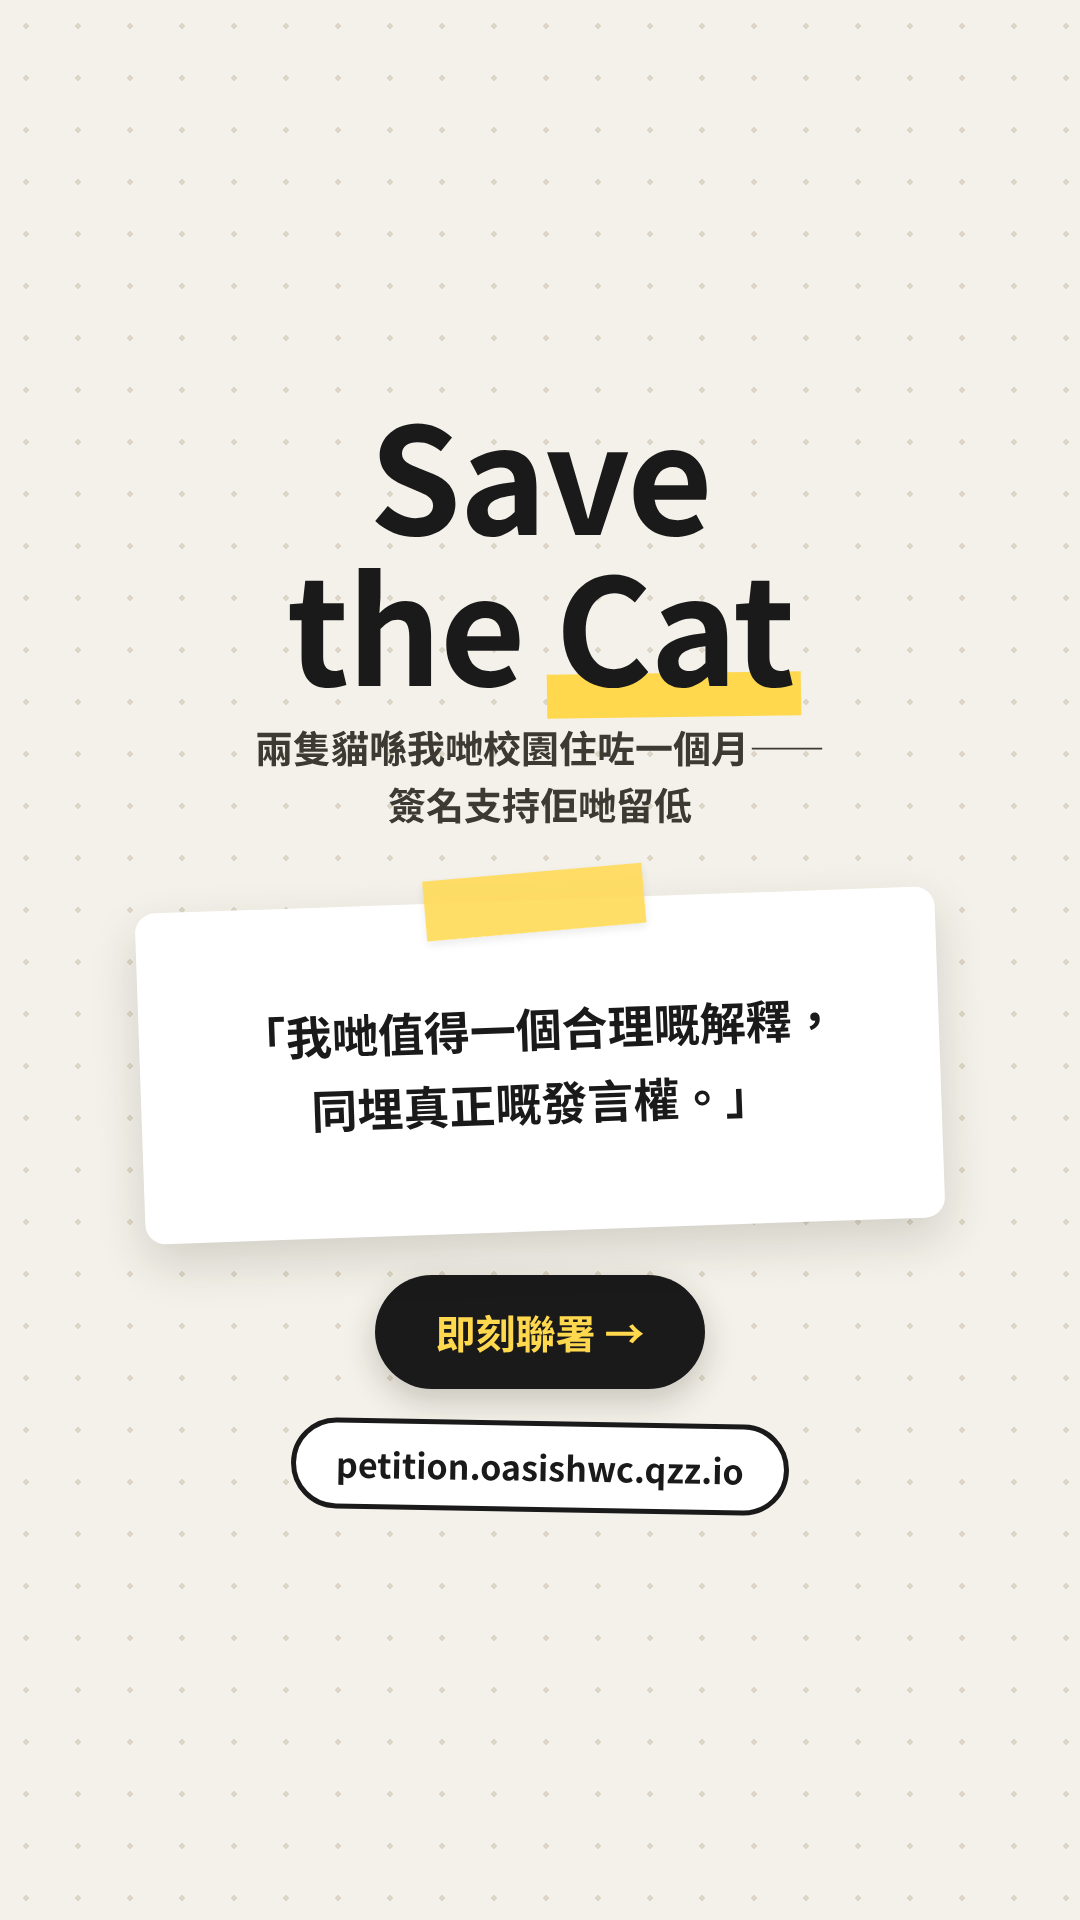
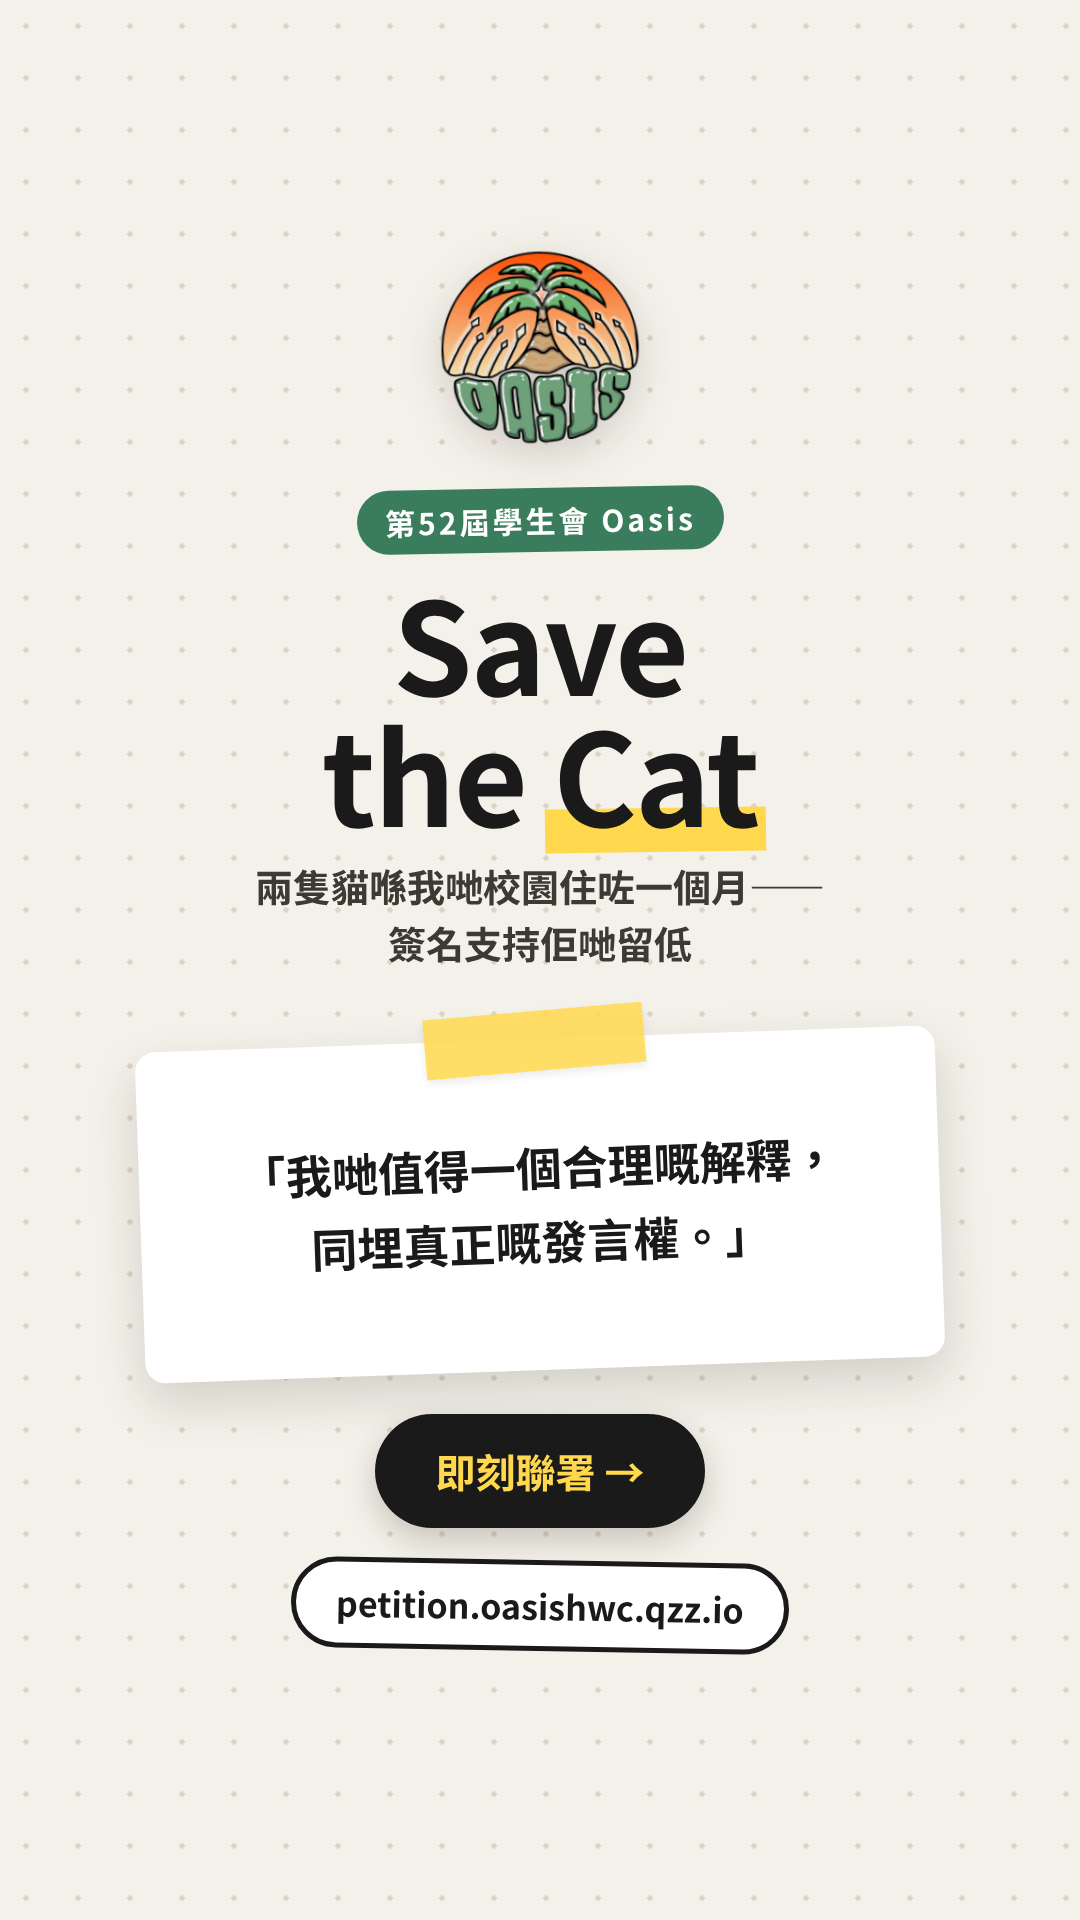
Render statement demands as a proper bullet list and brand the Oasis story card (修正聲明 bullet 排版並為 Oasis story 卡加品牌)
The five demands in the Oasis statement are paragraphs beginning with a
raw ● character; rendered as plain paragraphs the bullet sat flush inline
with wrapped text and no hanging indent, which looked broken. The Oasis
IG story card was also visually identical to the school version with no
Oasis identity.

聲明入面五點要求係以 ● 開頭嘅段落，直接用普通段落 render 會冇懸垂縮排、
視覺上好奇怪；Oasis 嘅 IG story 卡亦同學校版完全一樣，冇 Oasis 品牌。

- app/page.tsx: consecutive paragraphs starting with ● are grouped into a
  real <ul><li> list with the marker stripped
- 連續以 ● 開頭嘅段落改為真正嘅列表渲染
- public/story-card-oasis-src.html + regenerated PNG: added the
  transparent Oasis logo and a 第52屆學生會 Oasis pill, tightened layout
- story 卡加咗透明底 Oasis logo 同學生會標籤，重新出圖

Verified: tsc clean; card rendered at 1080x1920 and visually inspected.
已驗證 type check 通過，story 卡出圖並目測檢查。

Changed region(s): [[0.1222, 0.125, 0.8861, 0.875]]

diff --git a/app/page.tsx b/app/page.tsx
@@ -1,3 +1,4 @@
+import type * as React from "react";
 export const dynamic = "force-dynamic";
 
 import Link from "next/link";
@@ -20,6 +21,36 @@ import { readSession } from "@/lib/session";
 import { S } from "@/lib/strings";
 
 const FIRST_PAGE = 50;
+
+function renderBody(body: string) {
+  const paras = body.split(/\n\s*\n/);
+  const blocks: React.ReactNode[] = [];
+  let list: string[] = [];
+  const flush = () => {
+    if (list.length) {
+      const items = list;
+      list = [];
+      blocks.push(
+        <ul key={`ul-${blocks.length}`}>
+          {items.map((item, j) => (
+            <li key={j}>{item}</li>
+          ))}
+        </ul>,
+      );
+    }
+  };
+  paras.forEach((para, i) => {
+    const trimmed = para.trim();
+    if (trimmed.startsWith("\u25CF")) {
+      list.push(trimmed.replace(/^\u25CF\s*/, ""));
+    } else {
+      flush();
+      blocks.push(<p key={`p-${i}`}>{para}</p>);
+    }
+  });
+  flush();
+  return blocks;
+}
 
 export default async function Home() {
   const [session, content, counts] = await Promise.all([
@@ -62,9 +93,7 @@ export default async function Home() {
         <section className="hero">
           <h1>{content.title}</h1>
           <div className="body">
-            {content.body.split(/\n\s*\n/).map((para, i) => (
-              <p key={i}>{para}</p>
-            ))}
+            {renderBody(content.body)}
           </div>
 
           <div className="progress">

diff --git a/public/story-card-oasis-src.html b/public/story-card-oasis-src.html
@@ -16,9 +16,20 @@
   }
   .card {
     width: 480px; height: 900px;
-    padding-top: 150px;
+    padding-top: 84px;
     position: relative;
     display: flex; flex-direction: column; align-items: center;
+  }
+  .logo {
+    width: 120px; height: 120px; object-fit: contain;
+    transform: rotate(-2deg);
+    filter: drop-shadow(0 6px 10px rgba(40,35,20,.18));
+  }
+  .asso {
+    margin-top: 10px; font-size: 15px; font-weight: 800;
+    letter-spacing: 1.5px; color: #fff; background: #3a7d5c;
+    padding: 5px 14px; border-radius: 999px;
+    transform: rotate(-1deg);
   }
   .kicker {
     background: #1a1a1a; color: #fff;
@@ -27,8 +38,8 @@
     transform: rotate(-1.5deg);
   }
   h1 {
-    margin-top: 18px;
-    font-size: 74px; font-weight: 900; line-height: 1.02;
+    margin-top: 12px;
+    font-size: 64px; font-weight: 900; line-height: 1.02;
     color: #1a1a1a; text-align: center; letter-spacing: -1px;
   }
   h1 .hl { position: relative; white-space: nowrap; }
@@ -78,7 +89,8 @@
 </head>
 <body>
   <div class="card">
-    
+    <img class="logo" src="oasis-logo.png" alt="">
+    <div class="asso">第52屆學生會 Oasis</div>
     <h1>Save<br>the <span class="hl">Cat</span></h1>
     <div class="sub">兩隻貓喺我哋校園住咗一個月——<br>簽名支持佢哋留低</div>
     <div class="tape-block">
